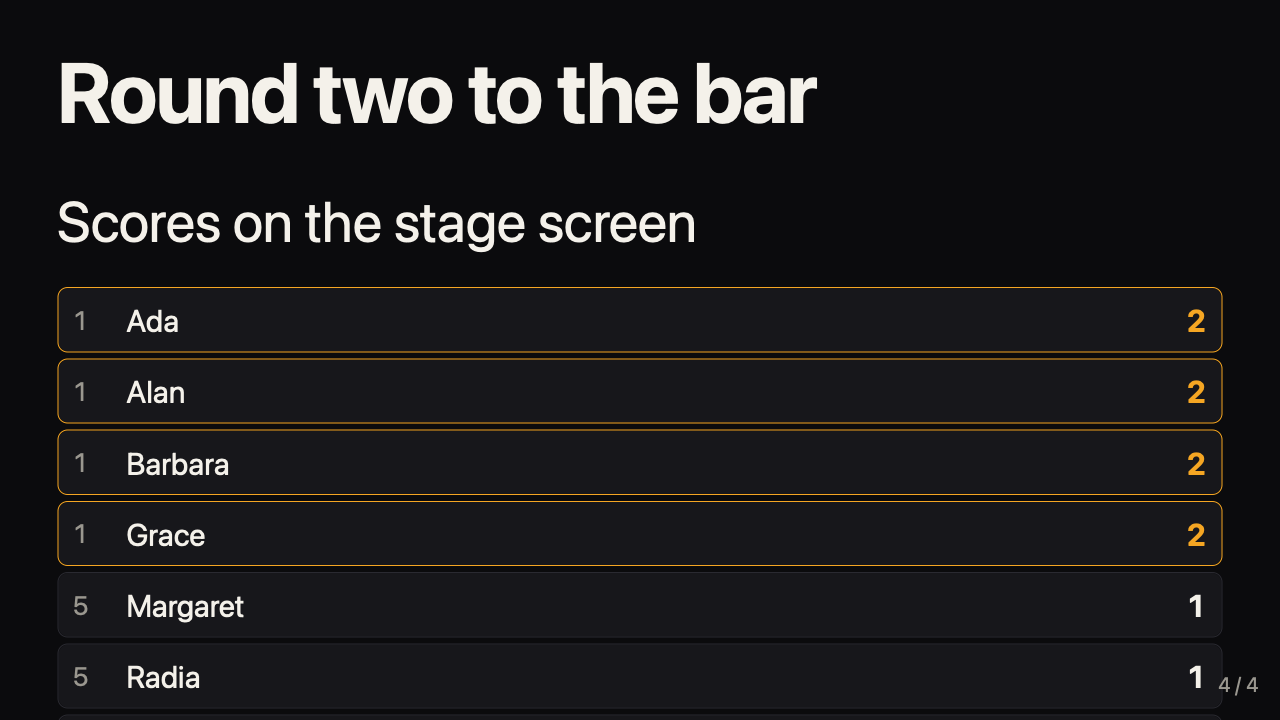
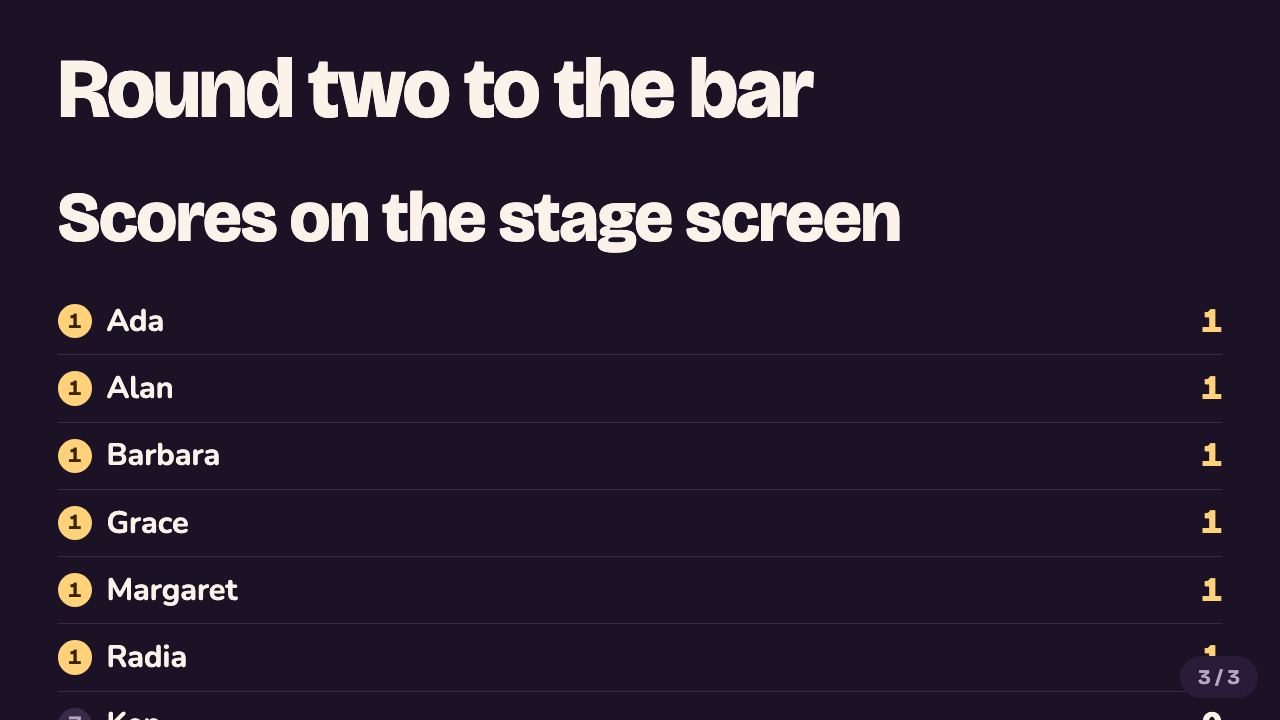
docs: screenshots in the new look, and the changelog entry
The five screenshots are retaken from a staged quiz room matching their
captions: the editor, the console mid-round with a tally, questions and
a leaderboard, a phone mid pick-all, a phone after the reveal, and the
stage on the scores.

Made-with: Bunny

diff --git a/CHANGELOG.md b/CHANGELOG.md
@@ -35,6 +35,13 @@ and this project adheres to [Semantic Versioning](https://semver.org/spec/v2.0.0
 
 ### Changed
 
+- A new look across every page: deep plum ground, coral for the one thing to
+  press, Bricolage Grotesque headings and Nunito text, both served by the
+  binary so a venue without internet gets them too. Buttons come in three
+  tiers, lists are flat rows instead of stacked cards, and section labels
+  match on every page. The presenter console leads with the live slide, keeps
+  the tools in one row of chips and the controls under the thumb, and puts the
+  room in a second column on a laptop. The audience Room panel is a sheet.
 - The presenter token travels in an `Authorization` header and in the socket's
   first frame, never in a URL. `?token=` still works for one release.
 - The default session cap is 500, down from 2000.
